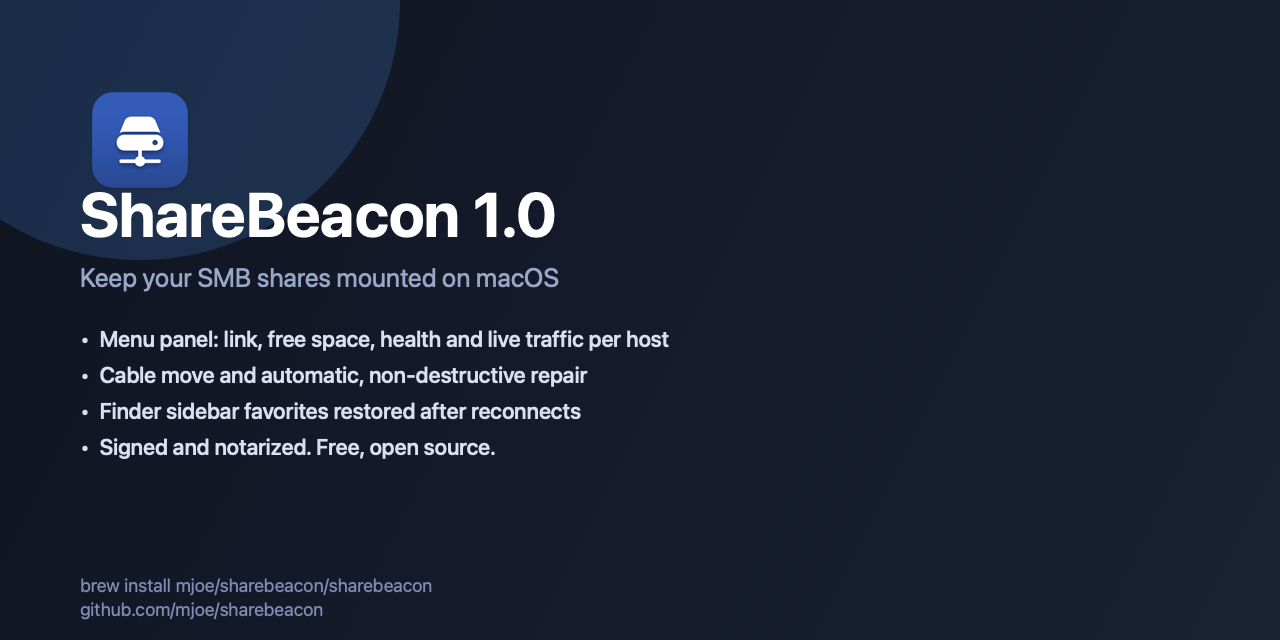
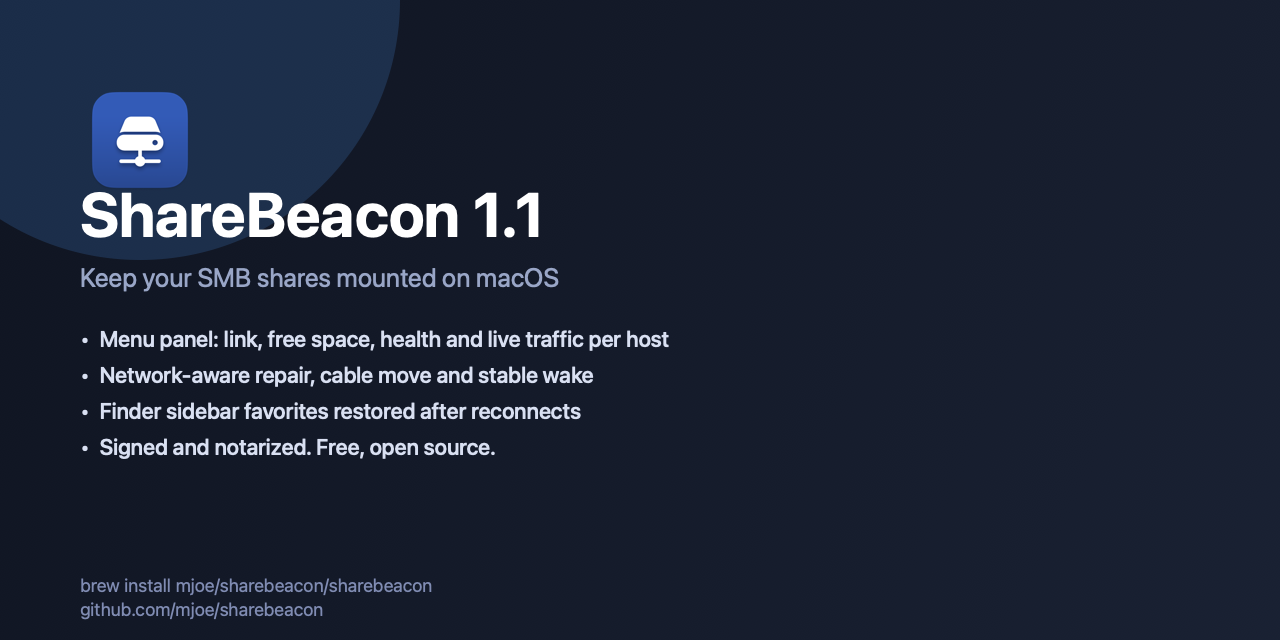
Prepare the 1.1 release
Bump VERSION and MARKETING_VERSION to 1.1, update the README, the
docs metadata, the settings footer and the social preview. The footer
now also says that an outage leaves mounted shares alone.

Teach build-release.sh to notarize with an Apple ID and an app-specific
password as well as with an App Store Connect API key, and validate the
staple and Gatekeeper assessment before the final archive.

Changed region(s): [[0.0625, 0.5625, 0.4688, 0.625], [0.4062, 0.2812, 0.4375, 0.375]]

diff --git a/docs/index.html b/docs/index.html
@@ -38,7 +38,7 @@
     "url": "https://github.com/mjoe/sharebeacon",
     "downloadUrl": "https://github.com/mjoe/sharebeacon/releases/latest",
     "installCommand": "brew install mjoe/sharebeacon/sharebeacon",
-    "softwareVersion": "1.0",
+    "softwareVersion": "1.1",
     "image": "https://mjoe.github.io/sharebeacon/assets/social-preview.png",
     "screenshot": "https://github.com/mjoe/sharebeacon/releases",
     "offers": {
@@ -175,6 +175,7 @@
         <li><strong>Works with any routed network</strong>Keeps shares available over LANs, Tailscale, WireGuard, and OpenVPN.</li>
         <li><strong>Finder sidebar favorites</strong>Restores your favorites after a share reconnects, with a safe no-op fallback.</li>
         <li><strong>Menu bar panel</strong>Shows link, free space, health and traffic per host, with a cable move and automatic repair.</li>
+        <li><strong>Network aware</strong>Pauses checks and repairs during an outage and waits for a stable link after wake.</li>
         <li><strong>Sleep aware</strong>Pauses all monitoring while the Mac sleeps and resumes with a network grace period.</li>
         <li><strong>Multiple shares</strong>Independent SMB shares with per-share automatic reconnect or on-demand mounting.</li>
         <li><strong>Credentials in the Keychain</strong>Passwords never appear in URLs, configuration, process arguments, or logs.</li>

diff --git a/ShareBeacon/SettingsView.swift b/ShareBeacon/SettingsView.swift
@@ -100,7 +100,7 @@ struct SettingsView: View {
                         }
                         .buttonStyle(.glass)
                     } footer: {
-                        Text("Mounts begin only after the configured SMB endpoint is reachable.")
+                        Text("Mounts begin only after the configured SMB endpoint is reachable. A network outage leaves mounted shares alone.")
                     }
                 }
                 .listStyle(.inset)

diff --git a/README.md b/README.md
@@ -14,6 +14,7 @@ reconnects.
 - Serialized mount operations and endpoint readiness checks
 - Automatic recovery after login, network changes, sleep/wake, and disconnects
 - Sleep-aware: pauses all monitoring and mount activity while the Mac sleeps
+- Network-aware: pauses checks and repairs during an outage, then waits for a stable path
 - Credentials kept out of URLs, configuration, process arguments, and logs
 - User-owned mount points by default, without requiring administrator privileges; custom paths such as `/Volumes` are supported
 - Settings window with Shares, General, and Log tabs (live log with level filter)
@@ -61,9 +62,9 @@ including `/Volumes/<share-name>`, can be selected when needed.
 
 ## Versioning
 
-ShareBeacon uses a two-part product version, currently `1.0`.
-Release tags use the same format, for example `v1.0`. Release titles are
-`ShareBeacon <version>` (for example `ShareBeacon 1.0`). Build numbers are
+ShareBeacon uses a two-part product version, currently `1.1`.
+Release tags use the same format, for example `v1.1`. Release titles are
+`ShareBeacon <version>` (for example `ShareBeacon 1.1`). Build numbers are
 separate and increase for each CI build.
 
 The two-part rule is not cosmetic: `0.10` sorts before `0.9` as plain text, so
@@ -79,9 +80,11 @@ swift test
 
 Use `./scripts/build-release.sh --clean` for a clean derived-data build,
 `--skip-sign` when only an unsigned local artifact is needed, and `--notarize`
-to submit the release to Apple notarization and staple the ticket. The
-`--notarize` option requires `NOTARY_KEY_ID`, `NOTARY_ISSUER`, and
-`NOTARY_KEY_PATH`. Release ZIPs include a SHA-256 checksum.
+to submit the release to Apple notarization, then staple and validate the
+ticket. Notarization accepts either `NOTARY_KEY_ID`, `NOTARY_ISSUER`, and
+`NOTARY_KEY_PATH` for an App Store Connect API key, or `NOTARY_APPLE_ID`,
+`NOTARY_PASSWORD`, and `NOTARY_TEAM_ID` for an Apple ID with an app-specific
+password. Release ZIPs include a SHA-256 checksum.
 
 The release build is universal. When a Developer ID Application certificate is
 installed in the login keychain, `build-release.sh` signs with it (with
